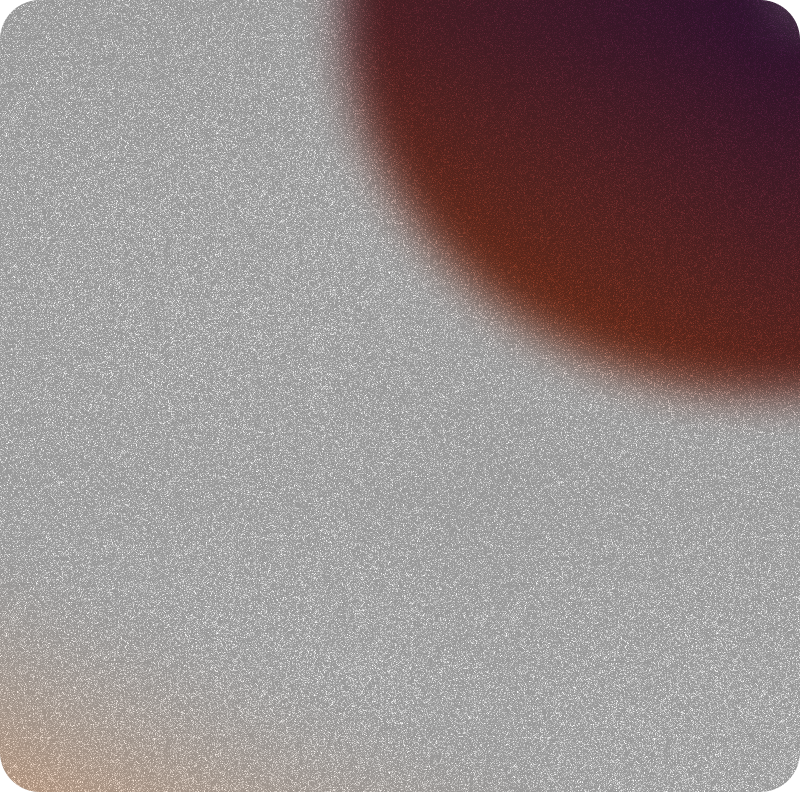
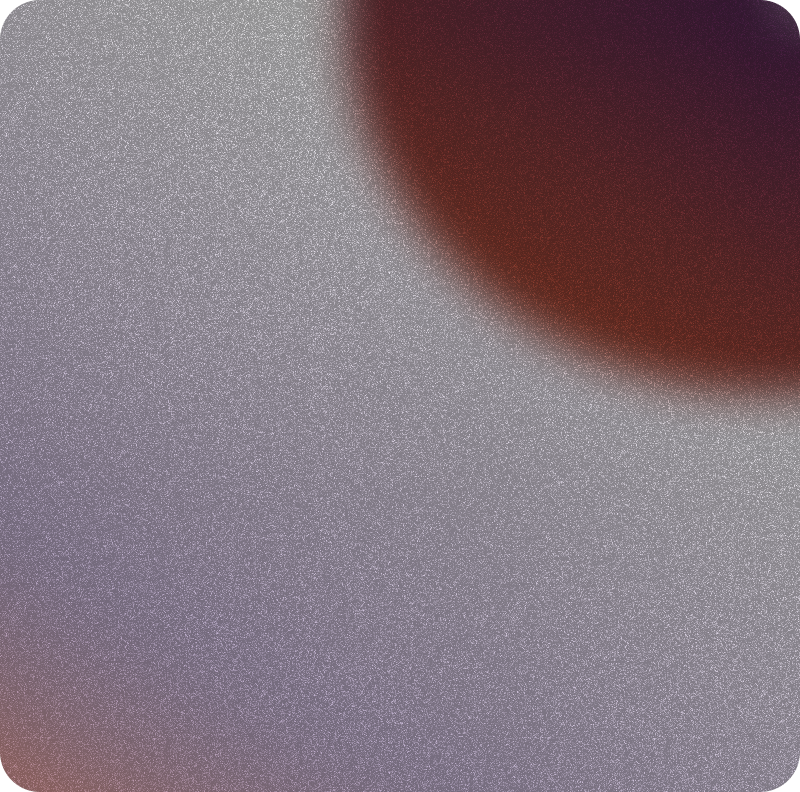
:tada: Updated bg :bookmark:

diff --git a/pages/index.tsx b/pages/index.tsx
@@ -1,22 +1,46 @@
-import React from 'react'
-import Navbar from '@/components/Navbar'
-import Hero from '@/components/Hero'
-import AboutDoD from '@/components/AboutDoD'
-import Domains from '@/components/Domains'
+import React, { useState, useEffect } from 'react';
+import Navbar from '@/components/Navbar';
+import Hero from '@/components/Hero';
+import AboutDoD from '@/components/AboutDoD';
+import Domains from '@/components/Domains';
+import Image from 'next/image';
+import Preloader from '@/public/images/preloader2.gif'
 
-function index() {
+function Index() {
+  const [loading, setLoading] = useState(true);
+
+  useEffect(() => {
+    // Simulate a 2-second delay
+    const timer = setTimeout(() => {
+      setLoading(false);
+    }, 5000);
+
+    return () => clearTimeout(timer);
+  }, []); // Empty dependency array ensures the effect runs only once
+
   return (
-    <div className='overflow-x-hidden bg-[#260441] h-full'>
-      <div className='home-page '>
-        {/* <Navbar /> */}
-        <Hero />
-        <AboutDoD />
-      </div>
-      <div className='below-bg'>
-        <Domains />
-      </div>
+    <div className={`overflow-x-hidden bg-[#260441] h-full ${loading ? 'hidden' : ''}`}>
+      {loading ? (
+        // Your preloader component here
+        <div className="preloader h-screen w-screen bg-primary">
+          <div className="flex flex-col items-center justify-center h-full">
+            <Image src={Preloader} alt="Loading..." />
+          </div>
+        </div>
+      ) : (
+        <div className='home-page'>
+          {/* <Navbar /> */}
+          <Hero />
+          <AboutDoD />
+        </div>
+      )}
+      {!loading && (
+        <div className='below-bg'>
+          <Domains />
+        </div>
+      )}
     </div>
-  )
+  );
 }
 
-export default index
+export default Index;

diff --git a/components/ParallaxSection.tsx b/components/ParallaxSection.tsx
@@ -39,7 +39,7 @@ function ScrollSection() {
   }, []);
 
   return (
-    <section className="py-40" id="timeline">
+    <section className="" id="timeline">
       {/* <div className='absolute -left-12 md:left-0 '>
         <div className='mt-20 md:mt-28 underline font-museoModernoMedium text-xs md:text-lg -rotate-90 text-white/50 flex-shrink-0'>
           DOMAINS OF THE HACKATHON

diff --git a/tailwind.config.ts b/tailwind.config.ts
@@ -20,7 +20,7 @@ const config: Config = {
         spaceGroteskLight: ['SpaceGroteskLight'],
       },
       colors: { 
-        primary: "260441",
+        primary: "#260441",
       },
     },
   },
